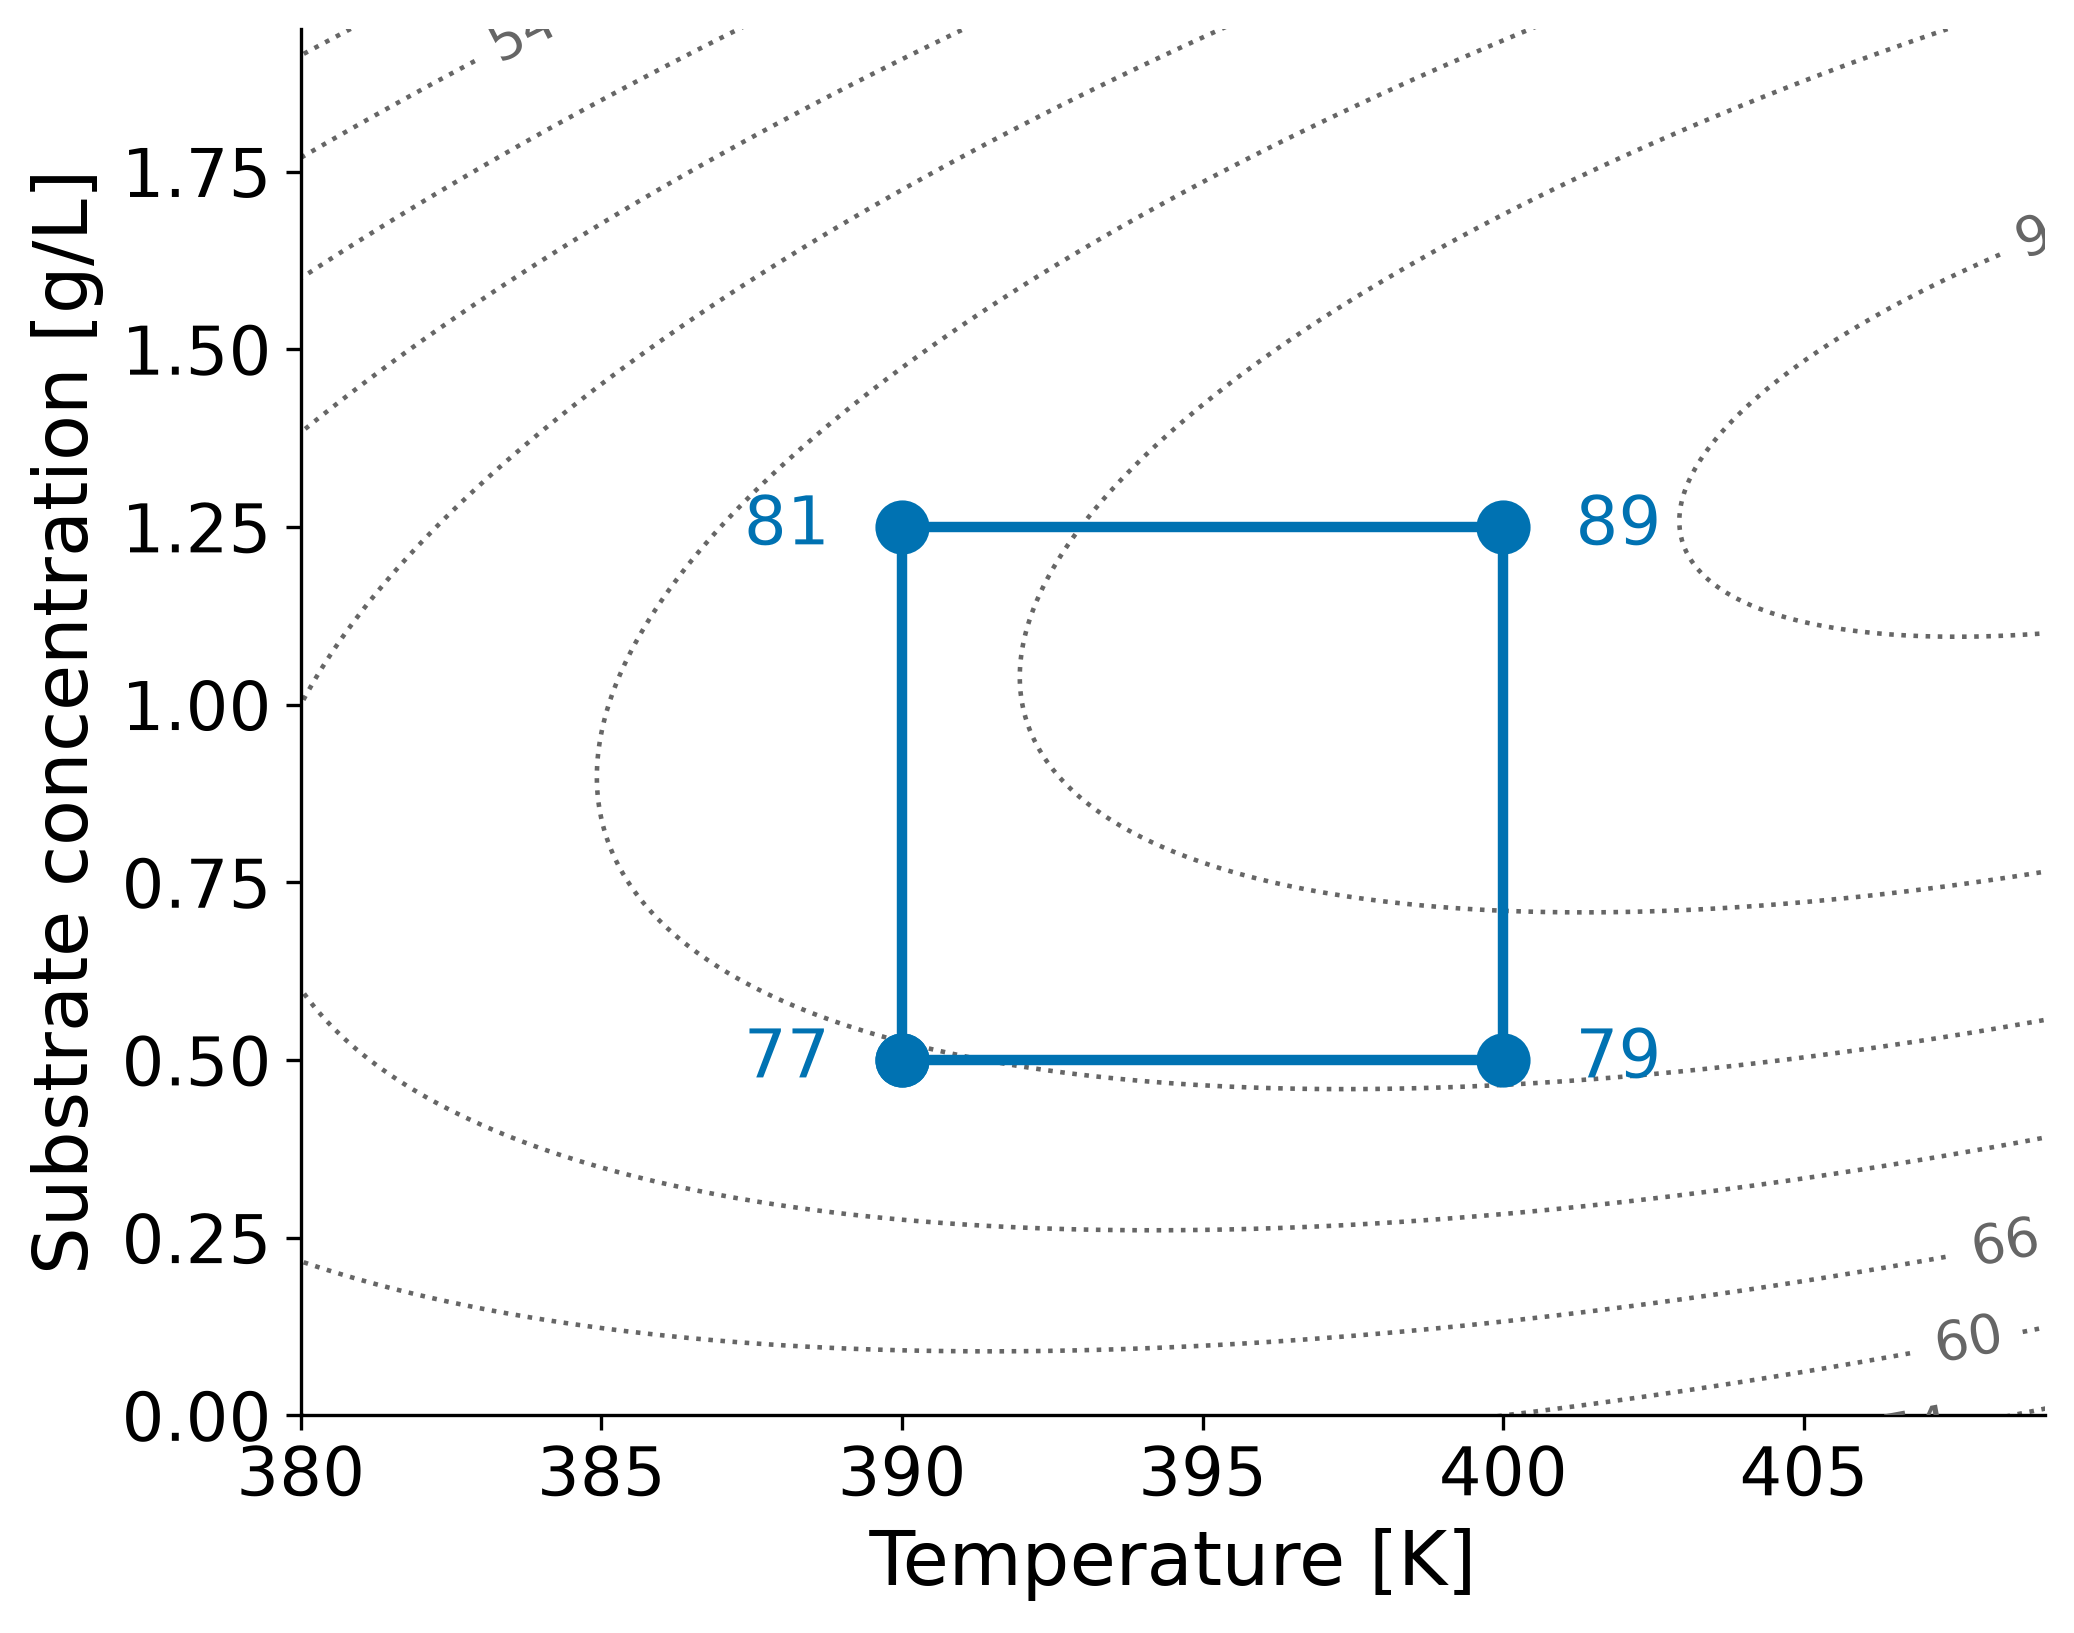
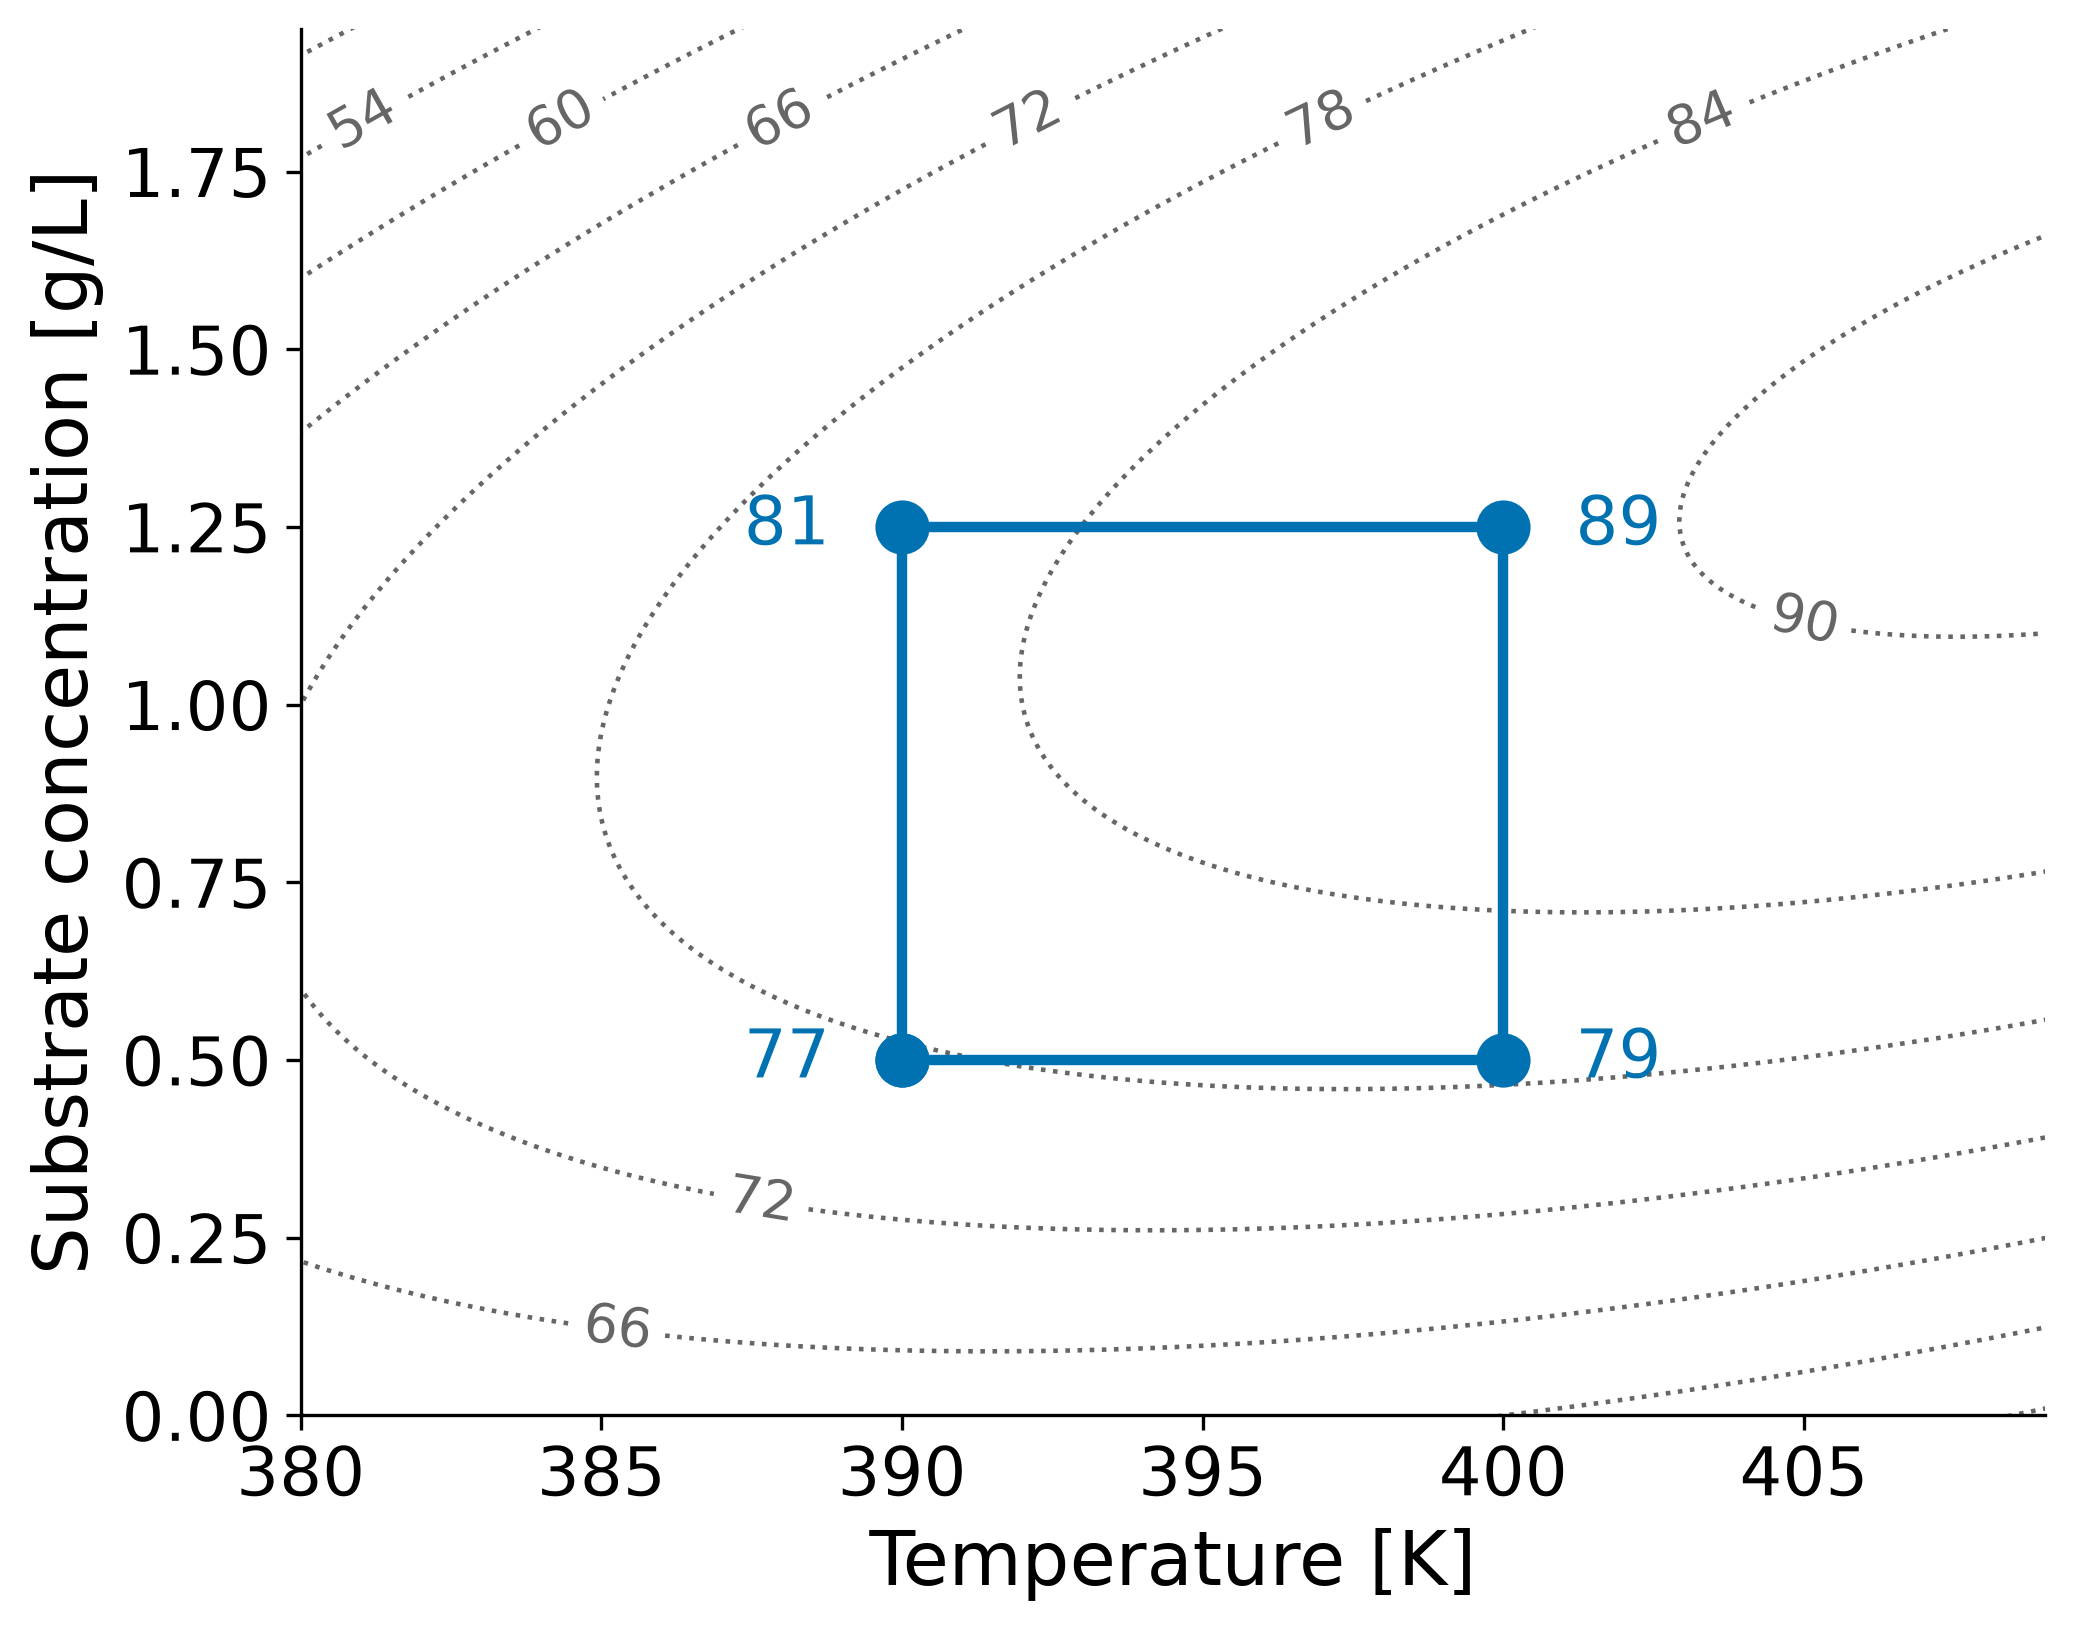
Label every contour on the interaction plot, as the original did
The surface is computed on a wider grid than the axes show, so the
contours run to the edges instead of stopping short. Left to itself,
clabel then chose label positions on the parts of the contours that
fall outside the axes: four labels survived, three of them clipped
against the frame, against ten in the original.

The positions are now chosen explicitly, by sweeping a line across the
plot and taking where each contour crosses it. Three horizontal sweeps
and one vertical: along the top, twice along the bottom, where the
value band is too shallow for one row to cross more than a single
contour, and down the right-hand edge, which is the only place the
closed 90 contour is reachable. A contour gets at most two labels, and
only when they would be well apart.

Nine labels now, in the same arrangement as the original: 54 through
84 along the top, 90 at the right, and 72 and 66 again along the
bottom where those contours re-enter the plot. Every contour is
labelled at least once. The original also labels 60 in the
bottom-right corner; the 60 contour only clips that corner, and a
label there would sit on the frame.

diff --git a/doe/doe_chapter_figures.py b/doe/doe_chapter_figures.py
@@ -289,11 +289,59 @@ def interaction_contours(outdir: pathlib.Path) -> None:
               f"surface {interaction_surface(temperature, substrate):.2f}, reported {value}")
 
     fig, ax = plt.subplots(figsize=(7.5, 6))
-    contours = ax.contour(grid_t, grid_s, conversion, levels=np.arange(48, 96, 6),
+    levels = np.arange(48, 96, 6)
+    contours = ax.contour(grid_t, grid_s, conversion, levels=levels,
                           colors=GREY, linestyles="dotted", linewidths=1.1)
-    ax.clabel(contours, inline=True, fontsize=13, fmt="%g")
     ax.set_xlim(380, 409)
     ax.set_ylim(0, 1.95)
+
+    # The surface is computed on a wider grid than is shown, so that the
+    # contours run to the edges rather than stopping short. Left to
+    # itself, clabel then puts most labels on the parts of the contours
+    # that fall outside the axes, and clips the rest against the frame.
+    # Placing them explicitly puts one on every contour, where the
+    # original had them: a row along the top, and the low-value contours
+    # labelled again along the bottom where they re-enter the plot.
+    # Three sweeps: along the top, along the lower right where the
+    # low-value contours come back into the plot, and down the right-hand
+    # edge, which is the only place the closed 90 contour is reachable.
+    # The band along the bottom is shallow in value, so a single row
+    # there crosses only one contour; two rows pick up the pair the
+    # original labels down there.
+    sweeps = (
+        ("row", 1.82, (381, 406)),
+        ("row", 0.30, (381, 406)),
+        ("row", 0.12, (381, 406)),
+        ("column", 405.0, (1.0, 1.9)),
+    )
+    found: dict[float, list[tuple[float, float]]] = {level: [] for level in levels}
+    for kind, fixed, (start, stop) in sweeps:
+        along = np.linspace(start, stop, 2000)
+        if kind == "row":
+            points = [(float(v), fixed) for v in along]
+        else:
+            points = [(fixed, float(v)) for v in along]
+        values = np.array([interaction_surface(t_, s_) for t_, s_ in points])
+        for level in levels:
+            for index in np.flatnonzero(np.diff(np.sign(values - level))):
+                found[level].append(points[index])
+    # At most two labels per contour, and only where the two would be
+    # well apart, so a contour that a sweep crosses twice nearby is not
+    # labelled twice in the same place. The low-value contours are the
+    # ones that earn a second label, since they leave the top of the plot
+    # and come back in along the bottom, which is what the original shows.
+    spots = []
+    for level in levels:
+        kept: list[tuple[float, float]] = []
+        for point in found[level]:
+            if any(abs(point[0] - x) < 5 and abs(point[1] - y) < 0.6 for x, y in kept):
+                continue
+            kept.append(point)
+            if len(kept) == 2:
+                break
+        spots.extend(kept)
+    ax.clabel(contours, inline=True, fontsize=13, fmt="%g", manual=spots)
+    print(f"interaction contour: {len(spots)} contour labels placed")
     ax.set_xlabel("Temperature [K]")
     ax.set_ylabel("Substrate concentration [g/L]")
 
